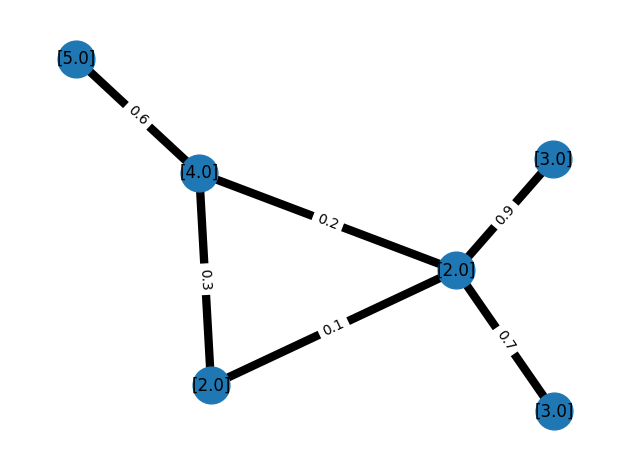
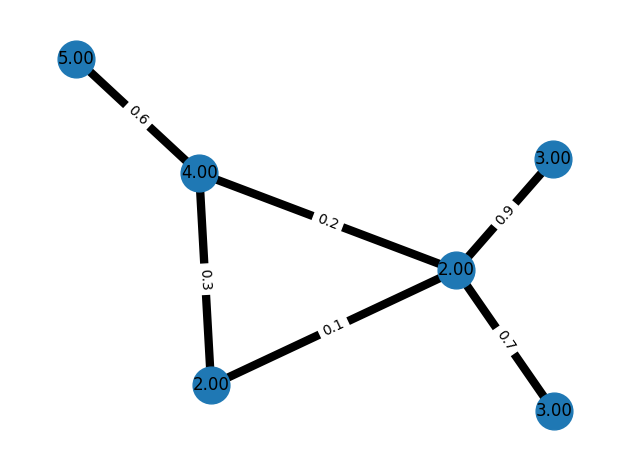
Fix figures (distinction between graph features values and nodes definitions)

diff --git a/notes-on-graph-spectral-theory/graph_convolution_example.py b/notes-on-graph-spectral-theory/graph_convolution_example.py
@@ -60,6 +60,8 @@ def draw_weighted_graph(G: nx.Graph, node_features: dict = None, fname: str = No
     # node feature
     if node_features is None:
         node_features = nx.get_node_attributes(G, "feat")
+        # node_features = {idx: f"({idx:d}):{val[0]:.1f}" for idx, val in node_features.items()}
+        node_features = {idx: f"{idx:d}" for idx, val in node_features.items()}
     print('node_features', node_features)
     nx.draw_networkx_labels(G, pos, labels=node_features) #font_size=20, font_family="sans-serif") # node labels
     
@@ -89,16 +91,17 @@ def compute_graph_convolution(G: nx.Graph, K: int =1, out_channels: int =2, norm
     # compute graph convolution
     conv = ChebConv(
         in_channels=node_features.shape[1],
-        out_channels=out_channels, K=K,
+        out_channels=out_channels,
+        K=K,
         normalization=normalization
-        )
-    
+    )
+
     # initialize weights
     if initialization is not None:
         init = eval(f"torch.nn.init.{initialization}_")
         for lins in conv.lins:
             init(lins.weight)
-
+    
     out = conv(node_features, edge_indices, edge_weights) # (|V|, out_channels)
     return out
 
@@ -132,10 +135,11 @@ def save_string_to_image(text: str, fname: str, size=(400, 400)):
     img.save(fname)
 
 
-if __name__ == '__main__':
+def main():
     K=3
     G = create_simple_graph()
     draw_weighted_graph(G, fname=f"{DEFAULT_FIGURES_LOCATION}/toy_graph_init.png")
+
     # print graph
     norm_lap = compute_graph_laplacian(G)
     print('normalized laplacian matrix')
@@ -144,11 +148,16 @@ if __name__ == '__main__':
     save_string_to_image(matprint(norm_lap@norm_lap), fname=f"{DEFAULT_FIGURES_LOCATION}/lap2.png")
     print('normalized laplacian matrix³')
     save_string_to_image(matprint(norm_lap@norm_lap@norm_lap), fname=f"{DEFAULT_FIGURES_LOCATION}/lap3.png")
+    
+    for k in range(1, K+1):
+        out_conv = compute_graph_convolution(G, K=k, out_channels=1, normalization='sym', initialization="ones")
+        node_features_after_conv = {i: f"{out_conv[i][0]:.2f}" for i in range(len(out_conv))}
+        print('node_features_after_conv', node_features_after_conv)
+        draw_weighted_graph(G, node_features=node_features_after_conv, fname=f'{DEFAULT_FIGURES_LOCATION}/toy_graph_conv_K{k}.png')
 
-    out_conv = compute_graph_convolution(G, K=K, out_channels=1, normalization='sym', initialization="ones")
-    node_features_after_conv = {i: torch.round(out_conv[i]).tolist() for i in range(len(out_conv))}
-    print('node_features_after_conv', node_features_after_conv)
-    draw_weighted_graph(G, node_features=node_features_after_conv, fname=f'{DEFAULT_FIGURES_LOCATION}/toy_graph_conv_K{K}.png')
+if __name__ == '__main__':
+    main()
+    
 
     
 

diff --git a/notes-on-graph-spectral-theory/notes-on-GSP.tex b/notes-on-graph-spectral-theory/notes-on-GSP.tex
@@ -104,30 +104,27 @@ On the illustration \ref{fig:toyGraph}, we notice that the greater the order of 
 
  \begin{figure}
     \centering
-    \begin{subfigure}{0.2\textwidth}
-        \includegraphics[width=\textwidth]{figures/toy_graph_init.png}
-        \caption{Toy graph}
+    \begin{subfigure}{0.45\textwidth}
+        \centering
+        \includegraphics[width=0.45\textwidth]{figures/toy_graph_init.png}
+        \includegraphics[width=0.45\textwidth]{figures/toy_graph_conv_K1.png}
+        \caption{Toy graph\\ $\leftarrow$ indexes of the nodes | initial features values ($K=1$) $\rightarrow$}
     \end{subfigure}
     \hfill
-    \begin{subfigure}{0.3\textwidth}
+    \begin{subfigure}{0.45\textwidth}
         \centering
-        \includegraphics[width=0.45\textwidth, height=1.5cm]{figures/toy_graph_conv_K1.png}
-        \includegraphics[width=0.45\textwidth, height=1.5cm]{figures/lap1.png}
-        \caption{Convolution with $K=1$}
-    \end{subfigure}
-    \hfill
-    \begin{subfigure}{0.3\textwidth}
-        \centering
-        \includegraphics[width=0.45\textwidth, height=1.5cm]{figures/toy_graph_conv_K2.png}
-        \includegraphics[width=0.45\textwidth, height=1.5cm]{figures/lap2.png}
+        \includegraphics[width=0.45\textwidth]{figures/toy_graph_conv_K2.png}
+        \includegraphics[width=0.45\textwidth]{figures/lap1.png}
         \caption{Convolution with $K=2$}
     \end{subfigure}
     \hfill
-    \begin{subfigure}{0.3\textwidth}
-        \includegraphics[width=0.45\textwidth, height=1.5cm]{figures/toy_graph_conv_K3.png}
-        \includegraphics[width=0.45\textwidth, height=1.5cm]{figures/lap3.png}
+    \begin{subfigure}{0.45\textwidth}
+        \centering
+        \includegraphics[width=0.45\textwidth]{figures/toy_graph_conv_K2.png}
+        \includegraphics[width=0.45\textwidth]{figures/lap2.png}
         \caption{Convolution with $K=3$}
     \end{subfigure}
+    \hfill
     \caption{Convolution of a toy graph and the normalized laplacian matrix $\widetilde{\mathbf{L}}^K$ for $K=1, 2, 3$.}
     \label{fig:toyGraph}
     \Description[]{illustration of convolution on graph}
